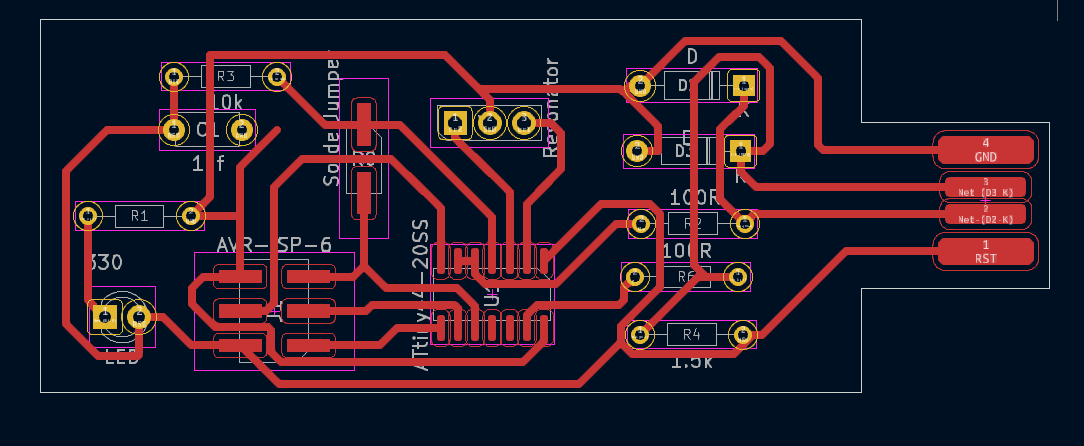
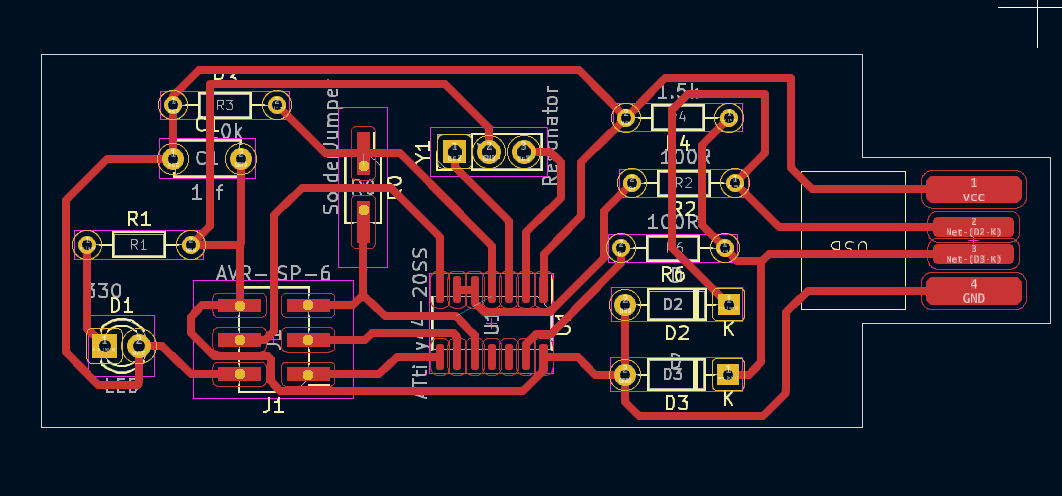
add new images and modified doucmentation format

diff --git a/members/Ahmed_Ali/assignment_1.html b/members/Ahmed_Ali/assignment_1.html
@@ -62,103 +62,90 @@
       <!-- ADD YOUR THE STEPS OF YOUR DOCUMENTATION BELOW -->
       <!-- TO ADD IMAGES YOU WILL FIND IMG TAGS BETWEEN PARAGRAPHS -->
       <!-- ADD THE NAME OF YOUR FILE -->
-      <h2>Overview</h2>
+      <h1>Overview</h1>
       <p>This documentation provides a simplified guide to building an AVR programmer with an ATtiny44A microcontroller.
         Follow the steps carefully and refer to the provided references for additional information and guidance.</p>
-      <img src="/images/avr/3dmodel.png">
-      <h2>Components and Tools</h2>
-      </ul>
-      <li>ATtiny44A SMD microcontroller</li>
-      <li>6-pin ISP header or 2x3 Pin Header SMD</li>
-      <li>20 MHz Resonator</li>
-      <li>330-ohm Resistor</li>
-      <li>LED (optional for status indication)</li>
-      <li>PCB board</li>
-      <li>Programmer (USBASP or Arduino as ISP)</li>
+        
+      <img src="images/avr/3dmodel.png">
+    
+
+      <h1>Components and Tools</h1>
+      <ul>
+        <li>ATtiny44A SMD microcontroller</li>
+        <li>6-pin ISP header or Pin Header</li>
+        <li>Resonator 16 MHz</li>
+        <li>Resistor (330 ohms)</li>
+        <li>Capacitor 1uF</li>
+        <li>Resistor 100 ohm x2</li>
+        <li>Resistor 1.5K ohm</li>
+        <li>Resistor 10K</li>
+        <li>Zener Diode 3.3 V x2</li>
       </ul>
 
-      <h2>Design Steps</h2>
-
+      <h1>Design Steps</h1>
       <h3>Step 1: PCB Design</h3>
-      <ol>
-        <li>I used KiCad to design my PCB.</li>
-        <li>Initially, I designed a USB connector package to minimize size. However, since I couldn't find a
-          through-hole (THT) ATtiny84/44, I switched to using an SMD ATtiny44A and kept other components as THT.</li>
-        <li>I tried to make my design single-layer , but due to spaces for a vertical 1x6 THT ISP header, I
-          switched to a 2x3 SMD pin header to make it single single-layer</li>
-      </ol>
-      <img src="/images/avr/Schematic.png">
-      <img src="/images/avr/layout.png">
+      <p>I used KiCad to design my PCB with a trace width of 0.6 and a clearance of 0.4.</p>
+      <img src="images/avr/Schematic.png">
+      <img src="images/avr/layout.png">
       <h3>Step 2: PCB Fabrication</h3>
+      <p>I used FlatCAM and an SRM20 machine to fabricate my PCB.</p>
+      <img src="images/avr/">
+      <h1>Firmware Compilation (Linux)</h1>
       <ol>
-        <li>I used FlatCAM and an SRM20 machine to fabricate my PCB. With min trace 0.6 and min clearness 0.4</li>
+        <li>Install the necessary tools by running the following command in the terminal:
+
+          <pre><code>sudo apt-get install gcc-avr avr-libc avrdude flex byacc bison gcc libusb-dev</code></pre>
+        </li>
+
+        <li>Download the firmware and unzip it using these commands:
+          <pre><code>wget http://academy.cba.mit.edu/classes/embedded_programming/firmware.zip && unzip firmware.zip</code></pre>
+        </li>
+
+        <li>Open the Makefile and edit the following parameters:
+          <ul>
+            <li><strong>DEVICE</strong> (microcontroller)</li>
+            <li><strong>AVRDUDE</strong> (programmer)</li>
+            <li><strong>F_CPU</strong> (crystal speed)</li>
+          </ul>
+          <img src="images/avr/makefile.png">
+        </li>
+        <li>Compile the firmware.</li>
+        <img src="images/avr/make.png">
       </ol>
+
+     
+
+      <h1>Trial and Errors</h1>
+      <ol>
+        <li>I designed a PCB with a USB-connector package. The goal was to design a small layout. But I couldn't find
+          through-hole (THT) ATtiny84/44 components. I chose to keep all other components as (THT) while switching the
+          ATtiny44 to (SMD). </li>
+
+          
+        <li>I tried to make the PCB single-layer with a 1x6 THT ISP header but it was challenging with a small layout .
+          I decided to switch to a 2x3 pin header in SMD form. This adjustment allowed for a more manageable
+          design.
+          <a>Note: This is a quick solution but not correct. You must create a custom pin header package (THT)
+            because,
+            at the end, I didnt find a pin header (SMD) and I put holes in the footprint.(^_^)</a>
+        </li>
+
+        <li>During the fabrication step, I found a problem with the custom USB package.
+
+          that was triggered by the modifications made during the first trial. When attempting to mirror the PCB for
+          fabrication (vcc&gnd). I edited the custom package again to be suitable for this case, or you can replace it
+          with a USB socket. </li>
+
+      </ol>
+
+      <h1>References</h1>
+      <ul>
+        <li><a href="https://fabacademy.org/2019/docs/FabAcademy-Tutorials/week04_electronic_production/fabisp.html">FabISP</a></li>
+        <li><a href="https://www.youtube.com/watch?v=J-MlgQMxIwM">Programming AVR with USBasp on Linux</a></li>
+        <li><a href="https://www.circuitsdiy.com/simplest-usb-avr-programmer/">Circuits DIY - Simplest USB AVR Programmer</a></li>
+      </ul>
+
       <img src="">
-      <h2>Firmware Compilation (Linux)</h2>
-
-      <h3>Step 1: Install Required Tools</h3>
-      <ol>
-        <h4>I installed the necessary tools on my Linux system:</h4>
-        <li><code>gcc-avr</code> for code compilation.</li>
-        <li><code>avr-libc</code>, the C library for AVR.</li>
-        <li><code>avrdude</code> for uploading HEX files to the microcontroller.</li>
-        <pre> sudo apt-get install gcc-avr avr-libc avrdude </pre>
-
-      </ol>
-
-      <h3>Step 2: Create a Makefile</h3>
-      <ol>
-        <li>I created a Makefile for my project. Here's an example:</li>
-      </ol>
-      <pre>
-  MCU=ATtiny44A
-  CC=avr-gcc
-  OBJCOPY=avr-objcopy
-  CFLAGS=-Wall -g -Os -mmcu=${MCU}
-  TARGET=main
-  SRCS=main.c
-  
-  all:
-      ${CC} ${CFLAGS} -o ${TARGET}.bin ${SRCS}
-      ${OBJCOPY} -j .text -j .data -O ihex ${TARGET}.bin ${TARGET}.hex
-  
-  flash:
-      avrdude -p ${MCU} -c usbasp -U flash:w:${TARGET}.hex:i -F -P usb
-  
-  clean:
-      rm -f *.bin *.hex
-      </pre>
-
-      <h3>Step 3: Compilation and Programming</h3>
-      <ol>
-        <li>I used the Makefile to compile my code and generate executable files.</li>
-        <li>I compiled the firmware by running <code>make</code>.</li>
-        <li>I flashed the firmware to the ATtiny44A using my programmer. Example command: <code>make flash</code>.</li>
-      </ol>
-
-      <h2>References</h2>
-      <ol>
-        <li><a href="https://www.youtube.com/watch?v=J-MlgQMxIwM">Video Tutorial</a></li>
-        <li><a href="https://www.circuitsdiy.com/simplest-usb-avr-programmer/">Circuits DIY - Simplest USB AVR
-            Programmer</a></li>
-        <li><a href="https://www.circuitsdiy.com/usb-avr-programmer-final-based-on-usbtinyisp/">Circuits DIY - USB AVR
-            Programmer Final</a></li>
-      </ol>
-
-      <h2>Trial and Errors</h2>
-      <ol>
-        <li><a> At the machining step, I realized that the USB custom package has a problem because when trying to
-            mirror the PCB
-            To fabricate it, the footprint pins are filped (VCC and ground). I will edit the custom package again, or I
-            will replace it with a USB socket.(ana astahel :|)  </a></li>
-        <!-- <li><a href="https://www.circuitsdiy.com/simplest-usb-avr-programmer/">Circuits DIY - Simplest USB AVR
-            Programmer</a></li>
-        <li><a href="https://www.circuitsdiy.com/usb-avr-programmer-final-based-on-usbtinyisp/">Circuits DIY - USB AVR
-            Programmer Final</a></li> -->
-      </ol>
-
-
-      <img src=""> 
 
 
     </section><!-- #end content area -->
